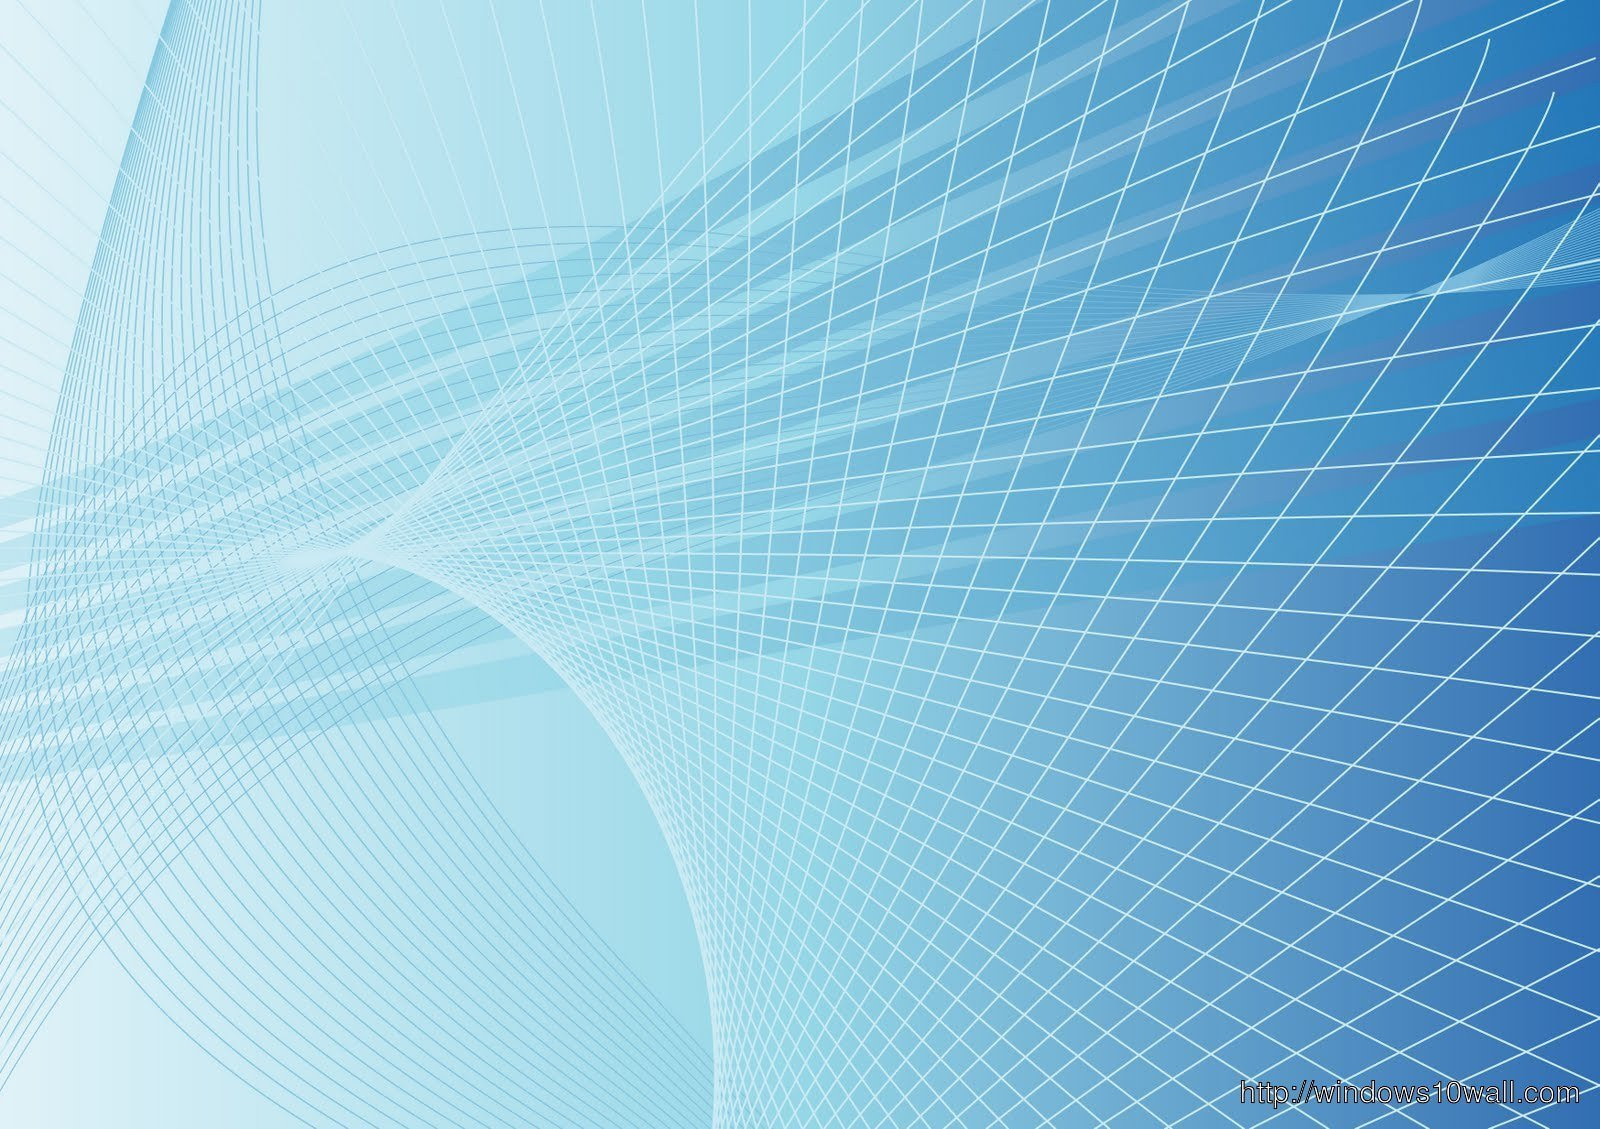
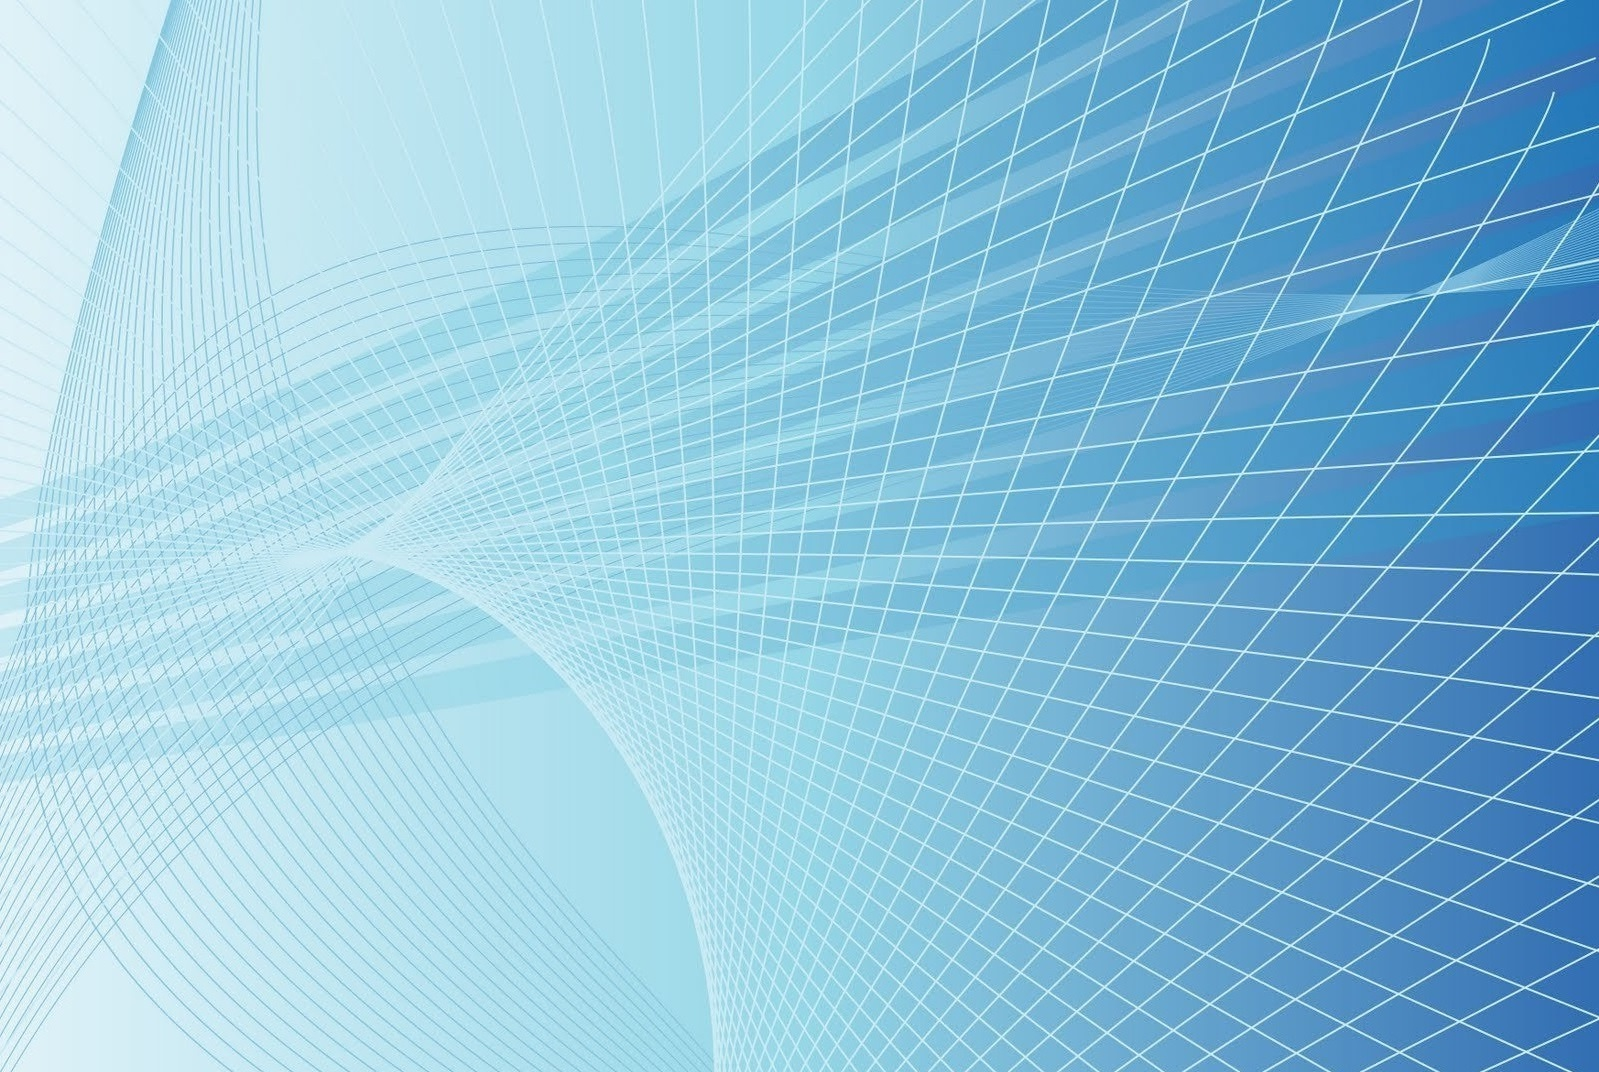
tune-up

diff --git a/css/styles.css b/css/styles.css
@@ -75,7 +75,7 @@ ul {
   /* margin: 0 auto; */
   /* outline: 1px solid pink; */
   background-color: rgba(240, 255, 210, 0.007);
-  background-image: url("../img/72.jpg");
+  background-image: url("../img/krasivo-23.jpg");
 }
 
 .info {
